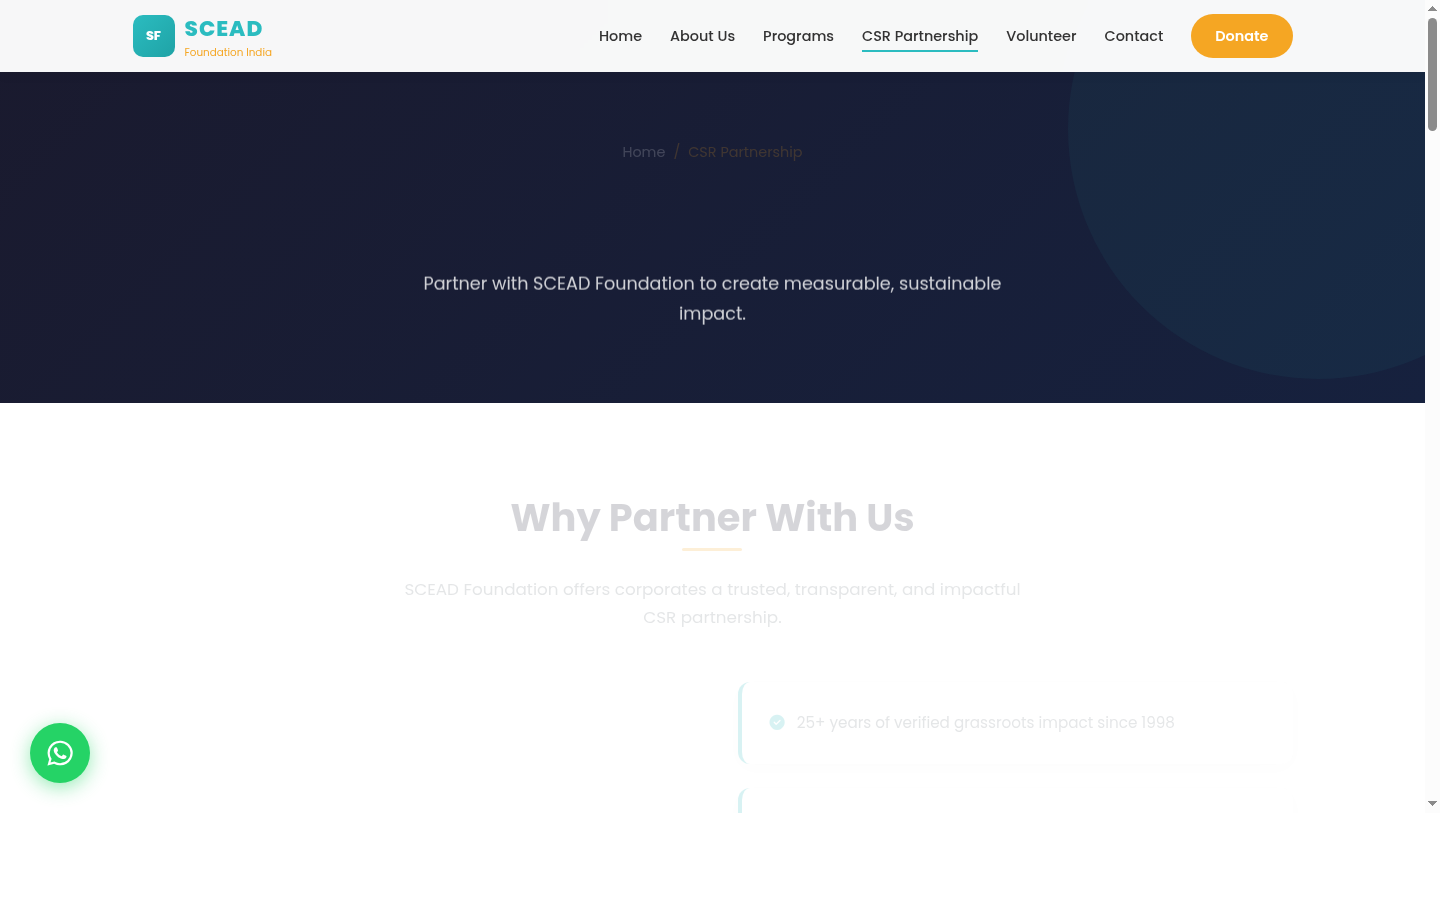
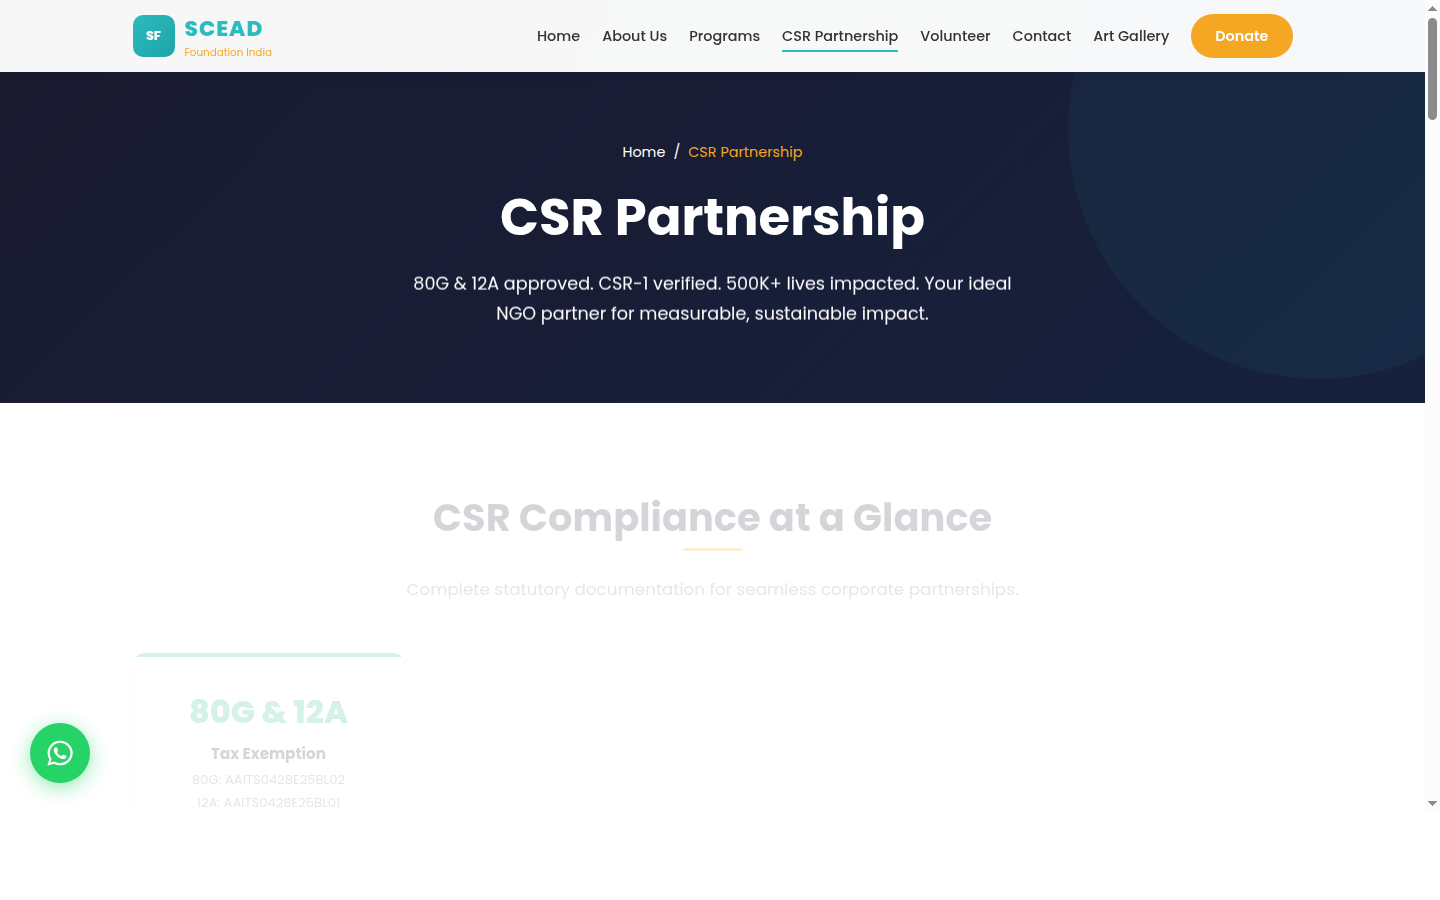
Update README with fresh screenshots for all 7 pages, mobile views, and comprehensive documentation

diff --git a/README.md b/README.md
@@ -7,13 +7,10 @@
 [![Website](https://img.shields.io/badge/Website-sceadfoundation.org-2BBCC0?style=for-the-badge&logo=google-chrome&logoColor=white)](https://www.sceadfoundation.org/)
 [![WhatsApp](https://img.shields.io/badge/WhatsApp-Chat_Now-25D366?style=for-the-badge&logo=whatsapp&logoColor=white)](https://wa.me/919845222812?text=Hello%20SCEAD%20Foundation!%20I%20visited%20your%20website%20and%20would%20love%20to%20know%20more%20about%20your%20work.)
 [![Donate](https://img.shields.io/badge/Donate-Support_Us-F5A623?style=for-the-badge&logo=heart&logoColor=white)](#-donate)
-[![License](https://img.shields.io/badge/License-All_Rights_Reserved-1A1A2E?style=for-the-badge)](#)
 
 <br />
 
-<img src="screenshots/homepage-hero.png" alt="SCEAD Foundation Website — Homepage" width="100%" style="border-radius: 12px;" />
-
-<br />
+<img src="screenshots/homepage-hero.png" alt="SCEAD Foundation Website — Homepage" width="100%" />
 
 **Empowering Communities. Transforming Lives.**
 
@@ -47,6 +44,8 @@ Our work is endorsed by the **Governor of Karnataka**, the **US Secretary of Sta
 | Vulnerable Youth Aided | **50,000+** |
 | Sanitation Units Built | **500+** |
 | Government Schools Adopted | **35** |
+| Tribal Beneficiaries | **15,000+** |
+| International Volunteers | **300+ from 17 countries** |
 | CSR Partners | **10+** |
 | Years of Grassroots Work | **25+** |
 
@@ -54,66 +53,87 @@ Our work is endorsed by the **Governor of Karnataka**, the **US Secretary of Sta
 
 ---
 
-## Website Screenshots
+## Website Pages
 
-### Homepage — Hero Section
-<img src="screenshots/homepage-hero.png" alt="Homepage Hero" width="100%" />
+### Homepage
+Full landing page with hero, trust badges, impact stats, focus areas, 39-post chronological archive (2019-2025), diplomatic recognition, CTA cards, partner scroll, and Snehalaya HIV Home section.
 
-### About Us Page
-<img src="screenshots/about-page.png" alt="About Us Page" width="100%" />
+<img src="screenshots/homepage-hero.png" alt="Homepage" width="100%" />
 
-### Programs Page
+### About Us
+Team & advisory board (IRS, IPS officers), 9-milestone timeline, founder section, values, 3-city presence, and global volunteer network with 17 country flags.
+
+<img src="screenshots/about-page.png" alt="About Page" width="100%" />
+
+### Programs
+7 program areas — environment, education, HIV home, girl child, community development, elderly care, disaster relief — with stat pills, split-grid layouts, gallery overlays, and event cards.
+
 <img src="screenshots/programs-page.png" alt="Programs Page" width="100%" />
 
-### CSR Partnership Page
-<img src="screenshots/csr-page.png" alt="CSR Partnership Page" width="100%" />
+### CSR Partnership
+Compliance cards (80G, 12A, CSR-1), Schedule VII coverage, 4-step process timeline, 18 partner cards, and enquiry form with WhatsApp.
+
+<img src="screenshots/csr-page.png" alt="CSR Page" width="100%" />
+
+### Volunteer & Intern
+Stat pills, 7 opportunity cards, internship features, real testimonials from Bahrain volunteers, 16-country coordinator network with flags, yoga program, and registration form.
+
+<img src="screenshots/volunteer-page.png" alt="Volunteer Page" width="100%" />
+
+### Contact
+Gradient icon cards, contact form with Google Maps, 3-branch office details, branded social buttons, and office hours.
+
+<img src="screenshots/contact-page.png" alt="Contact Page" width="100%" />
+
+### Art Gallery
+Fundraising through original oil paintings by Mariamma James. Artist portrait, painting specs, cause breakdown, 4-step purchase process.
+
+<img src="screenshots/art-gallery-page.png" alt="Art Gallery Page" width="100%" />
 
 ### Mobile Responsive
+
 <div align="center">
-<img src="screenshots/mobile-view.png" alt="Mobile View" width="300" />
+<img src="screenshots/mobile-home.png" alt="Mobile Home" width="250" />
+&nbsp;&nbsp;&nbsp;
+<img src="screenshots/mobile-about.png" alt="Mobile About" width="250" />
 </div>
 
 ---
 
 ## Core Focus Areas
 
-### 1. Climate Action & Environmental Sustainability
-- Large-scale plantation drives across Bengaluru, Anekal, Jigani, Bannerghatta, Shillong, and Metur Dam
-- Lake rejuvenation and ecosystem restoration
-- Carbon sequestration verified by **CERA** (Carbon Emissions Reduction Assessment), Mumbai
-- "Sowing Seeds of Sustainability" — 7,000 saplings project with Genpact (2024-2025)
-- Government Partnership: Governor of Karnataka flagged off Million Trees Project
+### 1. Climate Action & Environment
+- 200K+ trees planted across Bengaluru, Anekal, Jigani, Bannerghatta, Shillong, Metur Dam
+- Lake rejuvenation, CERA-verified carbon sequestration
+- Governor of Karnataka Million Trees Project, Genpact "Sowing Seeds of Sustainability" (7,000 saplings)
+- Diplomatic tree planting with consulates of Japan, Italy, Germany, Canada, UK, Australia
 
 ### 2. Education & Child Welfare
-- Education support for government school children from disadvantaged backgrounds
-- 35 government schools adopted for comprehensive support
-- Anti-child labour awareness campaigns
-- Blood group identification and health screening programs
-- HIV orphanage (Home for HIV) and Girl Child orphanage programs
+- 35 government schools adopted (Cleveland Town since 2011, Badrahalli Tamil Nadu 2024)
+- 50,000+ vulnerable youth aided
+- Anti-child labour, street children rescue, summer schools
+- Snehalaya HIV Children's Home (20+ years), Girl Child Orphanage, Save Girl Child Campaign
 
-### 3. Tribal Welfare & Community Development
-- Livestock distribution (cows, calves, sheep, goats) to 15,000+ tribal beneficiaries
-- 500+ sanitation units built for tribal communities and slum dwellers
-- Adopted 3 tribal villages in Bandipur for comprehensive development
-- Disaster & crisis management (Turkey Earthquake Relief 2023, COVID-19 Relief 2020)
+### 3. Community Development & Women Empowerment
+- 300,000+ women empowered through skill development and livelihood training
+- 15,000+ tribal beneficiaries via livestock distribution (cows, calves, sheep, goats)
+- 500+ sanitation units built, Saukhyam reusable pad training
+- Elderly care across tribal, rural, and urban communities
 
-### 4. Women Empowerment
-- Skill development and tailoring training for 300,000+ women
-- Saukhyam reusable sanitary pad production training for tribal women in Bandipur
-- Financial independence through livelihood initiatives
+### 4. Disaster Relief
+- Turkey earthquake relief (2023) — with Genpact, AHIMSA India, Turkish Consulate
+- COVID-19 relief (2020) — 12,000 kg food, US Secretary of State Pompeo tweet
 
 ---
 
 ## CSR Compliance
-
-SCEAD Foundation is fully equipped for corporate CSR partnerships:
 
 | Document | Status |
 |:---|:---|
 | 80G Registration | AAITS0428E25BL02 |
 | 12A Registration | AAITS0428E25BL01 / AAITS0428E |
 | CSR-1 Registration | Verified |
-| Certified Audit Reports | 3 years available |
+| Certified Audit Reports | 3 years, 100% clean |
 | Income Tax Returns | 10+ years continuous filing |
 | Government Registration | GAN-04-00209 |
 
@@ -121,20 +141,22 @@ SCEAD Foundation is fully equipped for corporate CSR partnerships:
 
 ## Tech Stack
 
-This is a **static website** built for performance and simplicity:
-
-- **HTML5** — Semantic, accessible markup
-- **CSS3** — Custom responsive design system with CSS variables
-- **Vanilla JavaScript** — Scroll animations, animated counters, mobile navigation
-- **Google Fonts** — Poppins typeface
-- **Font Awesome 6** — Icon library
-- **Zero frameworks** — No React, Vue, or build tools needed
+| Component | Technology |
+|:---|:---|
+| **Markup** | Semantic HTML5 |
+| **Styling** | CSS3 with CSS Variables, page-specific style blocks |
+| **Interactivity** | Vanilla JavaScript (zero frameworks) |
+| **Typography** | Google Fonts — Poppins |
+| **Icons** | Font Awesome 6 |
+| **Animations** | Custom IntersectionObserver-based scroll animations |
+| **Build** | None — pure static files, no bundler needed |
 
 ### Performance
-- Lazy-loaded images
-- Lightweight footprint (~25KB CSS + ~6KB JS)
-- Intersection Observer for scroll animations
-- Mobile-first responsive design (375px to 1440px+)
+- Lazy-loaded images with IntersectionObserver
+- Lightweight (~30KB CSS + ~8KB JS)
+- Custom scroll animations (no AOS library dependency)
+- Mobile-first responsive (375px to 1440px+)
+- Load-more pagination on homepage archive
 
 ---
 
@@ -142,27 +164,18 @@ This is a **static website** built for performance and simplicity:
 
 ```
 sceadfoundation/
-├── index.html              # Homepage
-├── about.html              # About Us — timeline, founder, values
-├── programs.html           # Programs — environment, education, community
-├── csr.html                # CSR Partnership — compliance, partners, form
-├── volunteer.html          # Volunteer & Intern — opportunities, form
-├── contact.html            # Contact — form, map, office info
-├── styles.css              # Global responsive stylesheet
-├── scripts.js              # Animations, counters, navigation
-├── images/                 # SCEAD Foundation project photographs
-│   ├── children-plantation-banner.jpg
-│   ├── plantation-drive.jpg
-│   ├── child-learning.jpg
-│   ├── livestock-distribution-women.jpg
-│   ├── livestock-event-group.jpg
-│   ├── cow-distribution-tribal.jpg
-│   ├── community-gathering.jpg
-│   ├── elderly-care.jpg
-│   ├── volunteer-children.jpg
-│   ├── saukhyam-pads.avif
-│   └── child-labor-brickkilns.webp
-└── screenshots/            # Website screenshots for README
+├── index.html              # Homepage — hero, stats, 39-post archive, recognition
+├── about.html              # About — timeline, team, values, global network
+├── programs.html           # Programs — 7 focus areas with galleries
+├── csr.html                # CSR — compliance, process, partners, form
+├── volunteer.html          # Volunteer — opportunities, testimonials, form
+├── contact.html            # Contact — form, map, branches
+├── art-gallery.html        # Art Gallery — paintings fundraiser
+├── styles.css              # Global design system
+├── scripts.js              # Animations, counters, navigation, load-more
+├── images/                 # 11 real SCEAD Foundation photographs
+├── screenshots/            # Website screenshots for README
+└── README.md               # This file
 ```
 
 ---
@@ -170,18 +183,13 @@ sceadfoundation/
 ## Run Locally
 
 ```bash
-# Clone the repository
 git clone https://github.com/vmishra/sceadfoundation.git
 cd sceadfoundation
-
-# Start a local server
 python3 -m http.server 8888
-
-# Open in browser
-open http://localhost:8888
+# Open http://localhost:8888
 ```
 
-No build step, no dependencies, no configuration. Just open and go.
+No build step. No dependencies. No configuration.
 
 ---
 
@@ -189,9 +197,11 @@ No build step, no dependencies, no configuration. Just open and go.
 
 <div align="center">
 
-**Genpact** · **Ascend Telecom** · **Anthem Biosciences** · **Zentree Labs** · **IDA Interior Design Associates**
+**Genpact** · **Ascend Telecom** · **Anthem Biosciences** · **Zentree Labs** · **Tower Vision India**
 
-**St. Joseph's Institutions** · **Tower Vision India** · **Mysore Wifiltronics** · **Prashanti Uniforms** · **Rotary Club of Bangalore Aagneya**
+**St. Joseph's Institutions** · **Christ University** · **AIESEC** · **IPYG** · **HWPL**
+
+**Rotary Club Bangalore** · **Jindal Global Law School** · **Candor International School** · **HCG Cancer Centre**
 
 </div>
 
@@ -199,25 +209,20 @@ No build step, no dependencies, no configuration. Just open and go.
 
 ## Recognition & Endorsements
 
-- **US Secretary of State Mike Pompeo** — Tweeted about SCEAD's COVID-19 relief (2020)
-- **Mr. Erik Solheim** — Former UN Environment Executive Director attended SCEAD's Global UnPlastic Day
-- **Governor of Karnataka** — Flagged off the Million Trees Project at Raj Bhavan (2022)
-- **Sri Harsha Vardhan** — IRS Commissioner, Customs and GST, Government of India
-- **Consulate Generals** — Italy (Mr. Alfonso Tagliaferri), Japan (Mr. Katasumasa Mauro), Germany (Mr. Achim Burkart), Canada, UK (James Godber, Deputy British High Commissioner), Australia (Ms. Caitlin Searle), France
-- **Newspaper Coverage** — Featured in Kannada press (Gaja Kesari and others)
-
----
-
-## Donate
-
-Your contribution directly supports tribal communities, underprivileged children, and women across India.
-
-<div align="center">
-
-[![Donate Now](https://img.shields.io/badge/Donate_Now-F5A623?style=for-the-badge&logo=heart&logoColor=white)](https://www.sceadfoundation.org/)
-[![WhatsApp](https://img.shields.io/badge/Chat_on_WhatsApp-25D366?style=for-the-badge&logo=whatsapp&logoColor=white)](https://wa.me/919845222812?text=Hello%20SCEAD%20Foundation!%20I%20would%20like%20to%20make%20a%20donation.)
-
-</div>
+| Who | What |
+|:---|:---|
+| **US Secretary of State Mike Pompeo** | Tweeted about SCEAD's COVID-19 relief (2020) |
+| **Mr. Erik Solheim** | Former UN Environment Executive Director visited SCEAD |
+| **Governor of Karnataka** | Flagged off Million Trees Project at Raj Bhavan (2022) |
+| **Sri Harsha Vardhan, IRS** | Commissioner Customs & GST — SCEAD Senior Adviser |
+| **Ms Nisha James, IPS** | Adviser on Women and Child |
+| **Consulate of Italy** | Mr. Alfonso Tagliaferri — tree planting & Hiroshima Day |
+| **Consulate of Japan** | Mr. Katsumasa Mauro — peace tree planting, Million Trees resolution |
+| **Consulate of Germany** | Mr. Achim Burkart — environment conference |
+| **British High Commission** | James Godber, Deputy Head of Mission — Hiroshima Day |
+| **Australian High Commission** | Ms. Caitlin Searle — plantation drive |
+| **Consulate of Canada** | Mr. Daniel Morency — Indo-Canadian student exchange |
+| **French Consulate** | Sapling handover ceremony |
 
 ---
 
@@ -225,19 +230,24 @@ Your contribution directly supports tribal communities, underprivileged children
 
 | | |
 |:---|:---|
-| **Address** | #293, 4th Floor, 15th Cross Road, 5th Main Rd, 5th Phase, J.P. Nagar, Bengaluru, Karnataka 560078 |
+| **Bengaluru HQ** | #293, 4th Floor, 15th Cross Road, 5th Main Rd, J.P. Nagar, Bengaluru 560078 |
+| **Mumbai Office** | Social Nagar, M.G. Road, Sion — Dharavi, Mumbai 400022 |
+| **Chandigarh** | Prof. Mohit Verma · contactchandigarh@sceadfoundation.org |
 | **Phone** | +91 9845222812 |
 | **Email** | contact@sceadfoundation.org |
-| **Website** | [www.sceadfoundation.org](https://www.sceadfoundation.org/) |
 | **WhatsApp** | [Chat Now](https://wa.me/919845222812) |
 
 ---
 
 <div align="center">
 
-**SCEAD Foundation India** · Reg. No: GAN-04-00209 · 80G & 12A Approved · CSR-1 Verified
+[![Donate Now](https://img.shields.io/badge/Donate_Now-F5A623?style=for-the-badge&logo=heart&logoColor=white)](https://www.sceadfoundation.org/)
+[![WhatsApp](https://img.shields.io/badge/Chat_on_WhatsApp-25D366?style=for-the-badge&logo=whatsapp&logoColor=white)](https://wa.me/919845222812?text=Hello%20SCEAD%20Foundation!%20I%20would%20like%20to%20make%20a%20donation.)
+[![Volunteer](https://img.shields.io/badge/Volunteer_With_Us-8B5CF6?style=for-the-badge&logo=people-group&logoColor=white)](https://wa.me/919845222812?text=Hello%20SCEAD!%20I%20want%20to%20volunteer.)
 
-*Empowering communities since 1998*
+**SCEAD Foundation India** · Est. 1998 · Reg: GAN-04-00209 · 80G & 12A Approved · CSR-1 Verified
+
+*Empowering communities. Transforming lives.*
 
 &copy; 2026 SCEAD Foundation India. All Rights Reserved.
 
